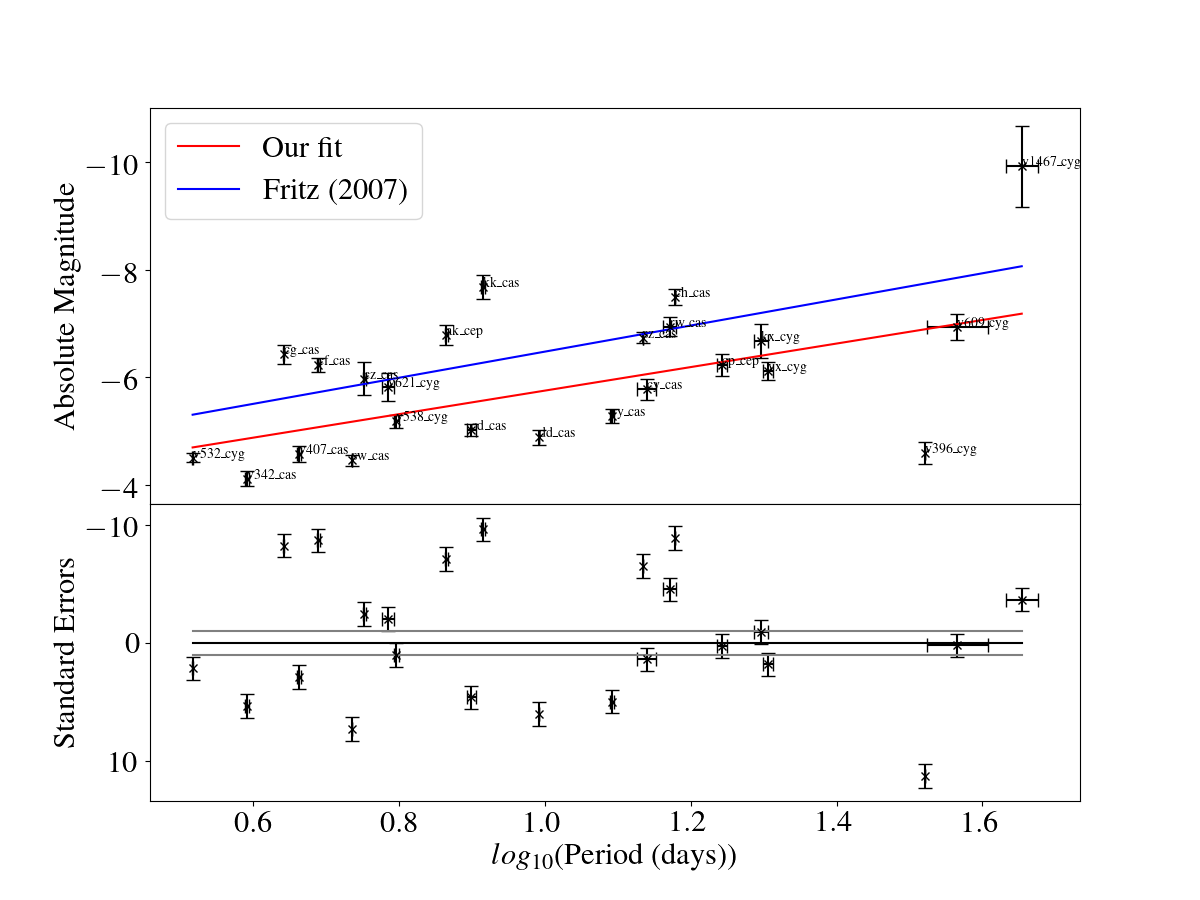
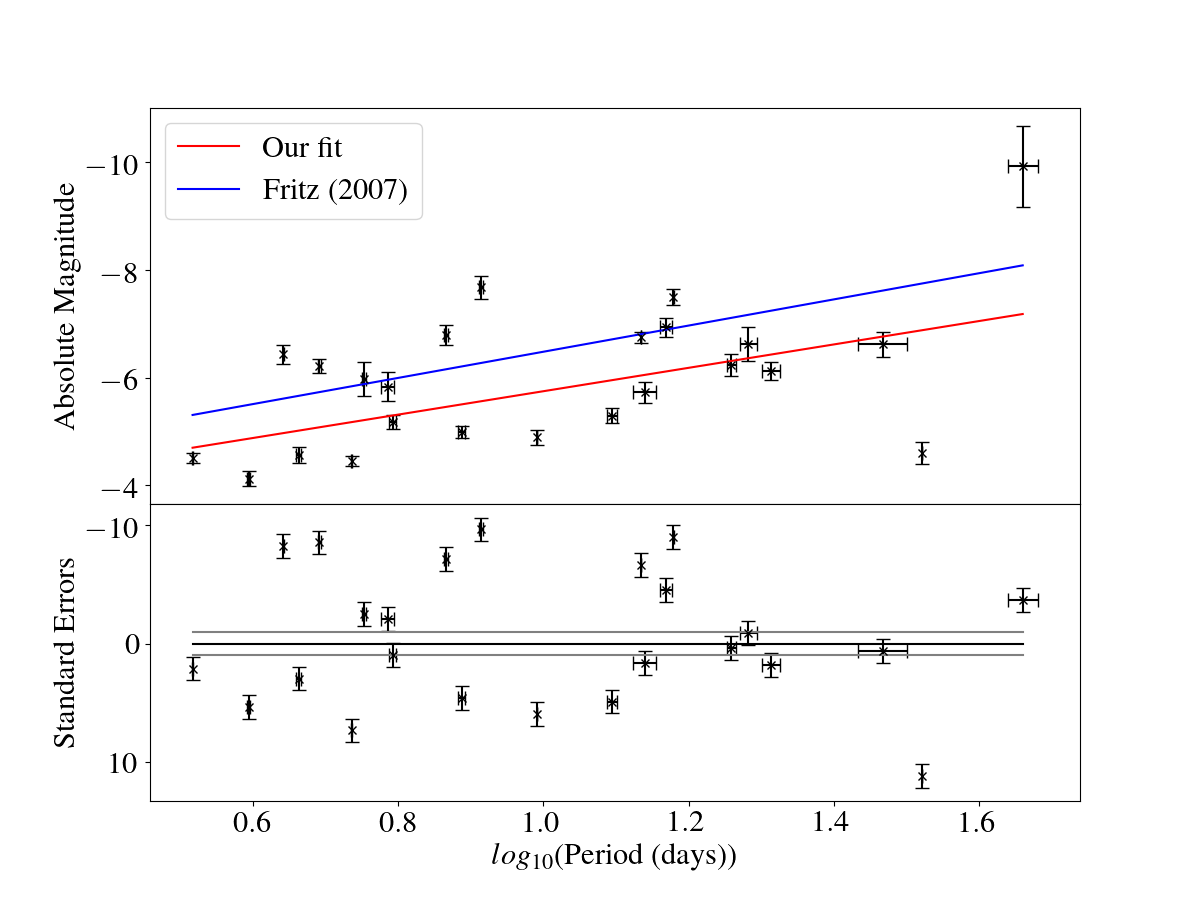
Maybe a little better, maybe not, let the courts decide

diff --git a/fourier_grid.py b/fourier_grid.py
@@ -41,7 +41,7 @@ def plot_fourier_grid(objs, periods,folded):
 
             #mean_mag=np.mean(mags)
             mean_mag = averagemags[obj_counter]
-            mean_mag_error=np.std(mags)/(np.sqrt(len(mags)))
+            #mean_mag_error=np.std(mags)/(np.sqrt(len(mags)))
             amp1=1
             period=period
             phi1=np.pi
@@ -67,15 +67,26 @@ def plot_fourier_grid(objs, periods,folded):
             disp_hi=mean_mag+1
 
             fourier_bounds=([disp_lo,amp1_lo,p_lo,phi1_lo,amp2_lo,phi2_lo],[disp_hi,amp1_hi,p_hi,phi1_hi,amp2_hi,phi2_hi])
-
+            
+            jackknifed_mean_mags = []
+            for i in range(len(times)):
+                jackknifed_times = np.delete(times,i)
+                jackknifed_mags = np.delete(mags,i)
+                jackknifed_errors = np.delete(errors,i)
+                popt,cov=sp.optimize.curve_fit(fourier_function,jackknifed_times,jackknifed_mags,sigma=jackknifed_errors,p0=fourier_values,bounds=fourier_bounds,check_finite=True,maxfev=10**6)
+                jackknifed_mean_mags = np.append(jackknifed_mean_mags,popt[0])
+                
             popt,cov=sp.optimize.curve_fit(fourier_function,times,mags,sigma=errors,p0=fourier_values,bounds=fourier_bounds,check_finite=True,maxfev=10**6)
+            
+            mean_mag = popt[0]
+            mean_mag_error = np.std(jackknifed_mean_mags)
 
             smooth_x=np.linspace(times[0], times[-1], 1000)
 
             fitted_period,fitted_error,reduced_chi,mean_mag,mean_mag_error=fourier_fitting(obj,period,2,5,False,False,20)
 
             f = open("periodmagdata.txt", "a")
-            f.write(str(popt[0])+' '+str(mean_mag_error)+' '+str(fitted_period)+' '+str(fitted_error)+'\n')
+            f.write(str(mean_mag)+' '+str(mean_mag_error)+' '+str(fitted_period)+' '+str(fitted_error)+'\n')
             f.close()
 
             details=obj+f'\nFitted Period: {fitted_period:.2f}+/-{fitted_error:.1g}\nReduced Chi Squared: {reduced_chi:.2f}'

diff --git a/p_l_relationship.py b/p_l_relationship.py
@@ -563,12 +563,6 @@ def plot_pl(objs, abs_mags, abs_mags_errs, log_periods, log_periods_errs, diff_i
     axs[0].sharex(axs[1])
     axs[1].set_ylabel("Standard Errors")
     
-    for i in range(len(objs)):
-        axs[0].text(log_periods[i],abs_mags[i],objs[i],size=10)
-        
-    """for i in range(len(outlier.obj)):
-        axs[0].text(outlier.log_period[i],outlier.abs_mag[i],outlier.obj[i],size=10,color="purple")  """               #Outlier
-    
     axs[0].plot(log_periods, jacky, color='red', label='Our fit')
     
     """gaia_y = -2.2 * log_periods - 2.05
@@ -612,12 +606,6 @@ def plot_pl_rm(objs, abs_mags, abs_mags_errs, log_periods, log_periods_errs, dif
     axs[1].yaxis.set_inverted(True)
     axs[0].sharex(axs[1])
     axs[1].set_ylabel("Standard Errors")
-    
-    for i in range(len(objs)):
-        axs[0].text(log_periods[i],abs_mags[i],objs[i],size=10)
-        
-    """for i in range(len(outlier.obj)):
-        axs[0].text(outlier.log_period[i],outlier.abs_mag[i],outlier.obj[i],size=10,color="purple")  """               #Outlier
     
     axs[0].plot(log_periods, jacky, color='red', label='Our fit')
     
@@ -1040,7 +1028,7 @@ def aliasing_ssr(log_periods, abs_mags, log_periods_errs, abs_mags_errs, slope, 
     plt.show()
     
     X, Y = np.meshgrid(p0_axis, p1_axis, indexing='xy')
-    contour_data = plot_data - chi_squared_min
+    contour_data = plot_data - ssr_min
 
     levels = [1, 4, 9] # Contour levels in delta chi-squared of 1, 4 & 9 correspond to 1, 2 & 3 standard errors
     plt.figure(figsize=(12,8))
